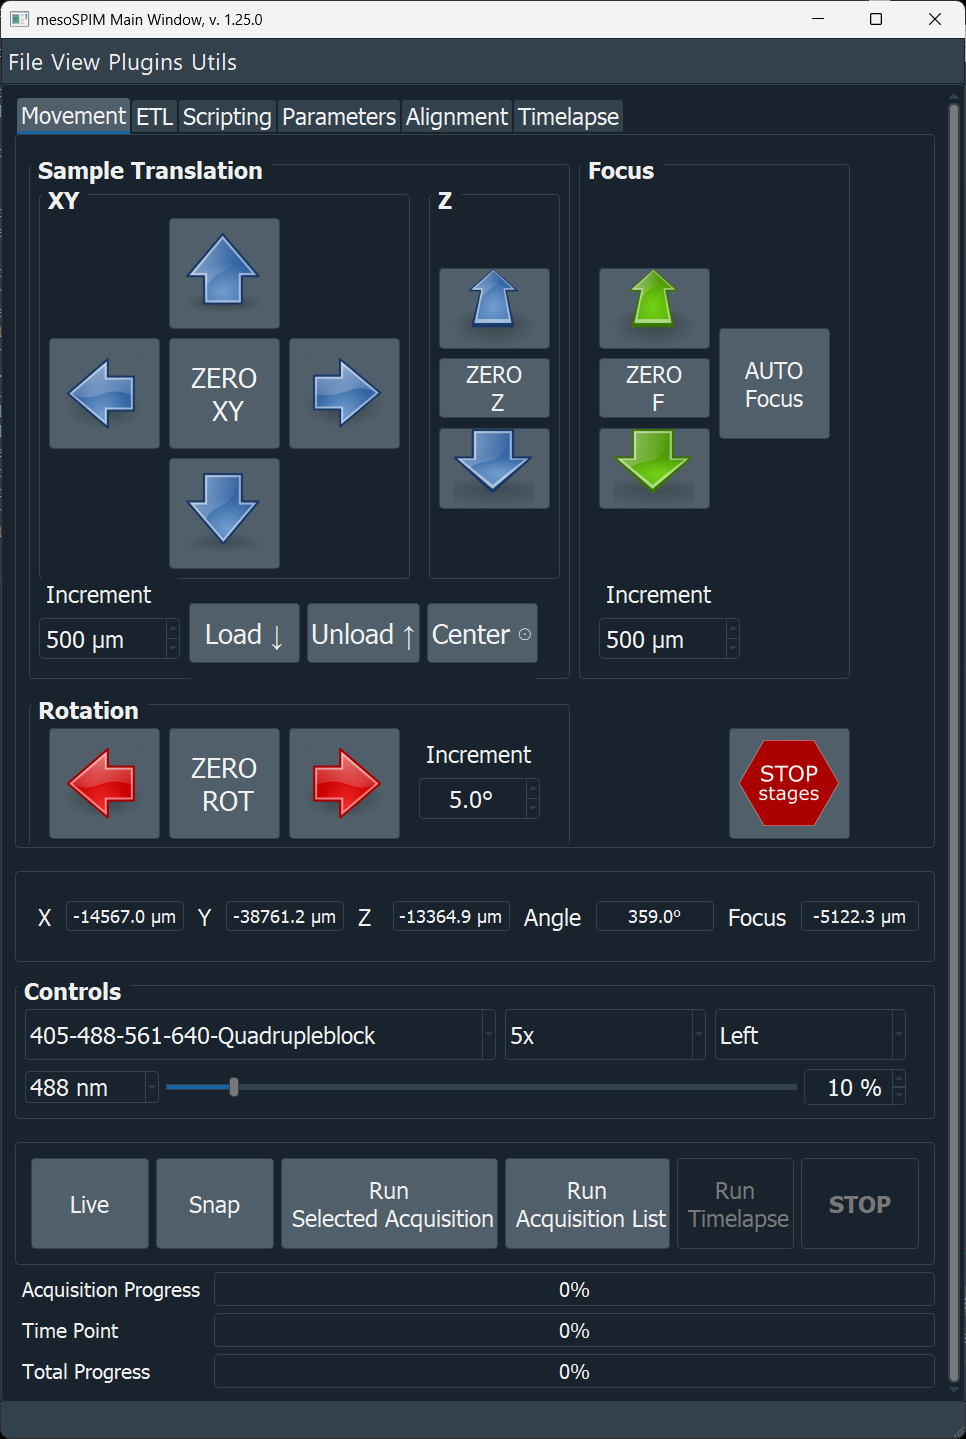
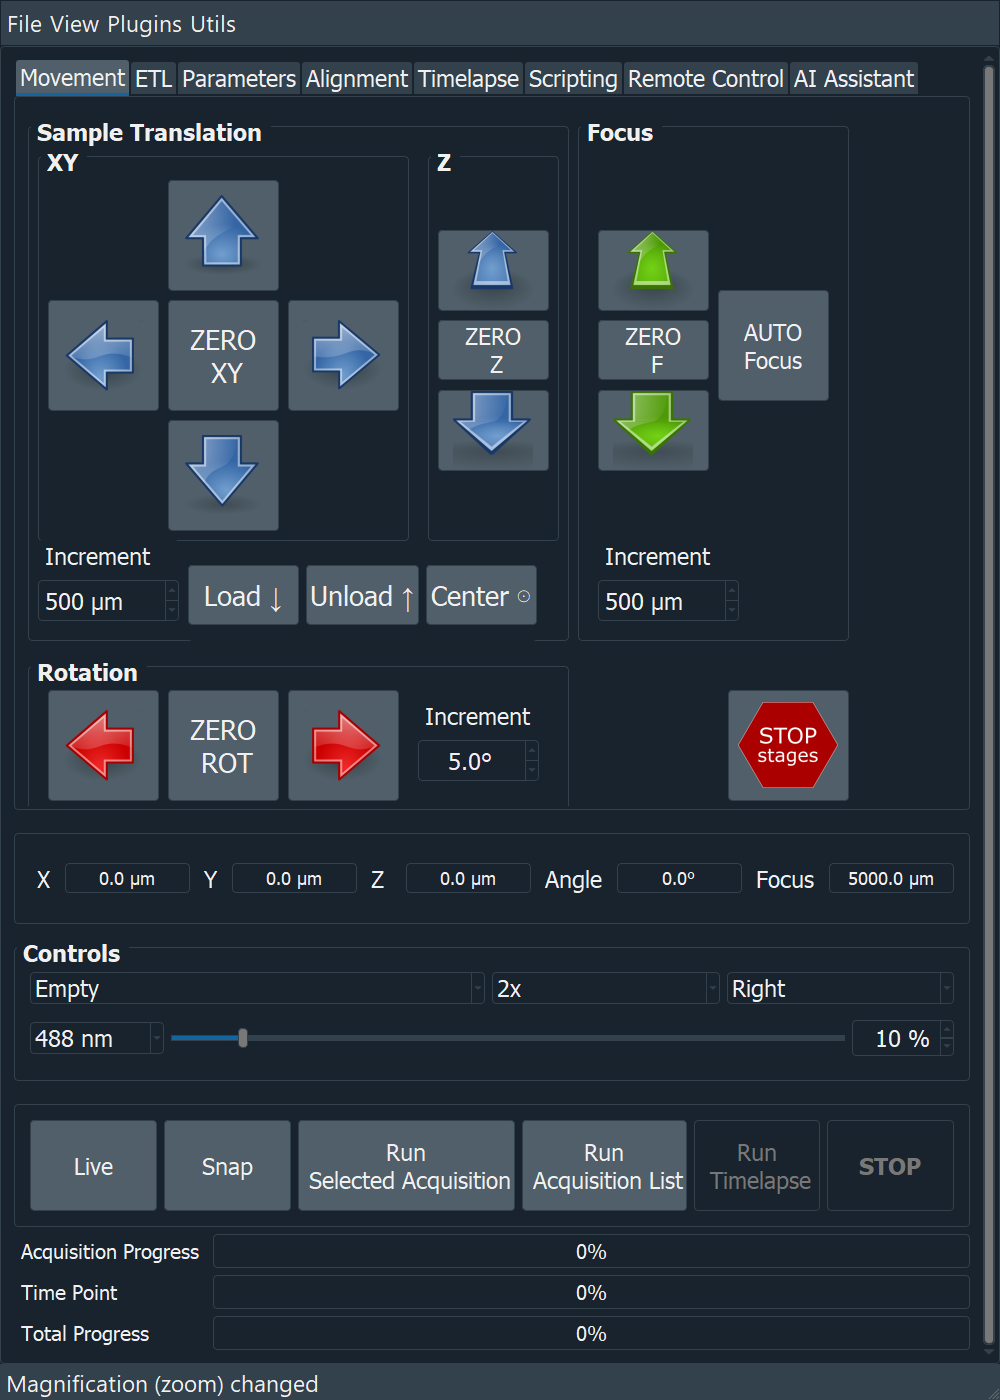
Docs: screenshots of the new Main Window
- MainWindow.png (Movement tab) and TimelapseGUI.png retaken in demo mode:
  new tab order, 1000 px window, Controls box stretching with the window.
- New RemoteControlTab.png and AIAssistantTab.png, shown at the top of the
  Remote Control and AI Assistant pages.
- The user guide lists the Main Window tabs in their new order, with links
  to the Timelapse, Remote Control and AI Assistant pages.

diff --git a/docs/source/remote_control/index.md b/docs/source/remote_control/index.md
@@ -4,6 +4,13 @@ TCP and MCP expose the same 56 commands. They use the same names, arguments, lim
 state, and error codes. The operator chooses one transport in the Remote Control tab; both cannot
 run together.
 
+```{figure} ../../screenshots/RemoteControlTab.png
+:alt: Remote Control tab in the Main window
+:width: 60%
+
+The Remote Control tab: protocol, host, port, password, status, and Start / Stop.
+```
+
 Call `get_manual`, `get_info`, and `get_limits` before making changes. `get_manual` returns this same
 accepted/rejected-and-poll workflow over both transports, together with a command list generated
 from the running command registry.

diff --git a/docs/source/user_guide.rst b/docs/source/user_guide.rst
@@ -45,6 +45,13 @@ Main window
    Main window (Movement tab): menu bar, mode tabs, stage controls, position
    read-out, illumination controls, and acquisition/progress controls.
 
+The tabs, from left to right: **Movement**, **ETL**, **Parameters**,
+**Alignment**, **Timelapse** (see :doc:`timelapse`), **Scripting**,
+**Remote Control** (see :doc:`remote_control/index`) and **AI Assistant**
+(see :doc:`ai_assistant/index`). The position read-out, the Controls box and
+the Live / Snap / Run / STOP buttons below the tabs stay visible on every tab,
+and stretch with the window.
+
 Stage controls
 ~~~~~~~~~~~~~~
 

diff --git a/docs/source/ai_assistant/index.md b/docs/source/ai_assistant/index.md
@@ -8,6 +8,13 @@ Assistant and a network transport are mutually exclusive — only one controller
 
 This builds on [Remote Control](../remote_control/index.md); read that first.
 
+```{figure} ../../screenshots/AIAssistantTab.png
+:alt: AI Assistant tab in the Main window
+:width: 60%
+
+The AI Assistant tab: language and vision model, preferences, coordinate system, and Connect.
+```
+
 ```{toctree}
 :maxdepth: 1
 
